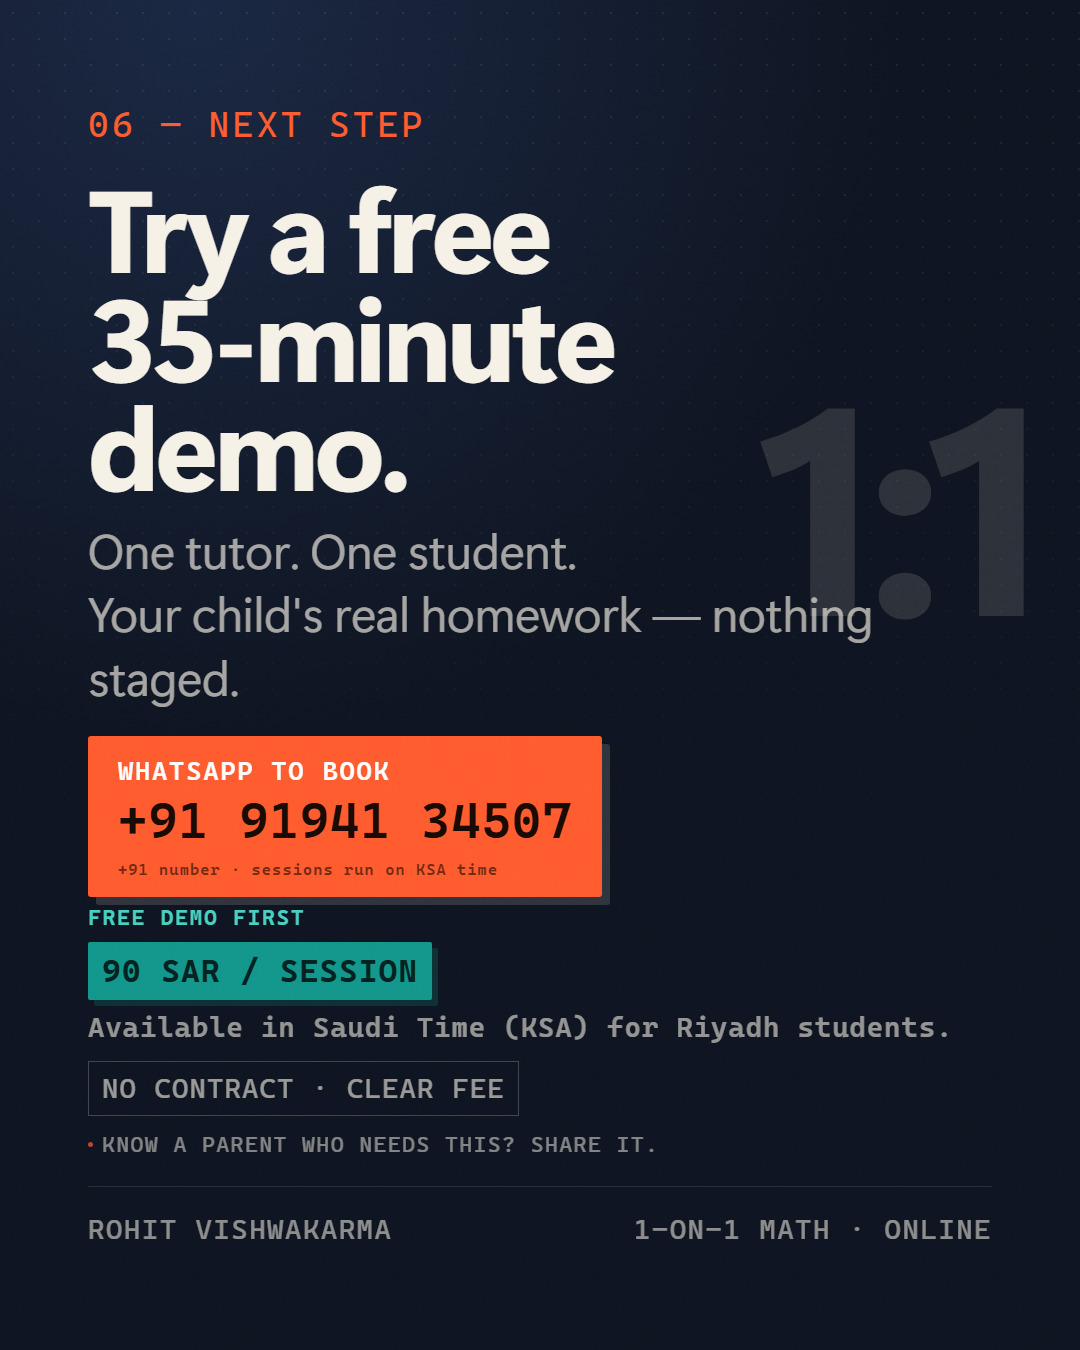
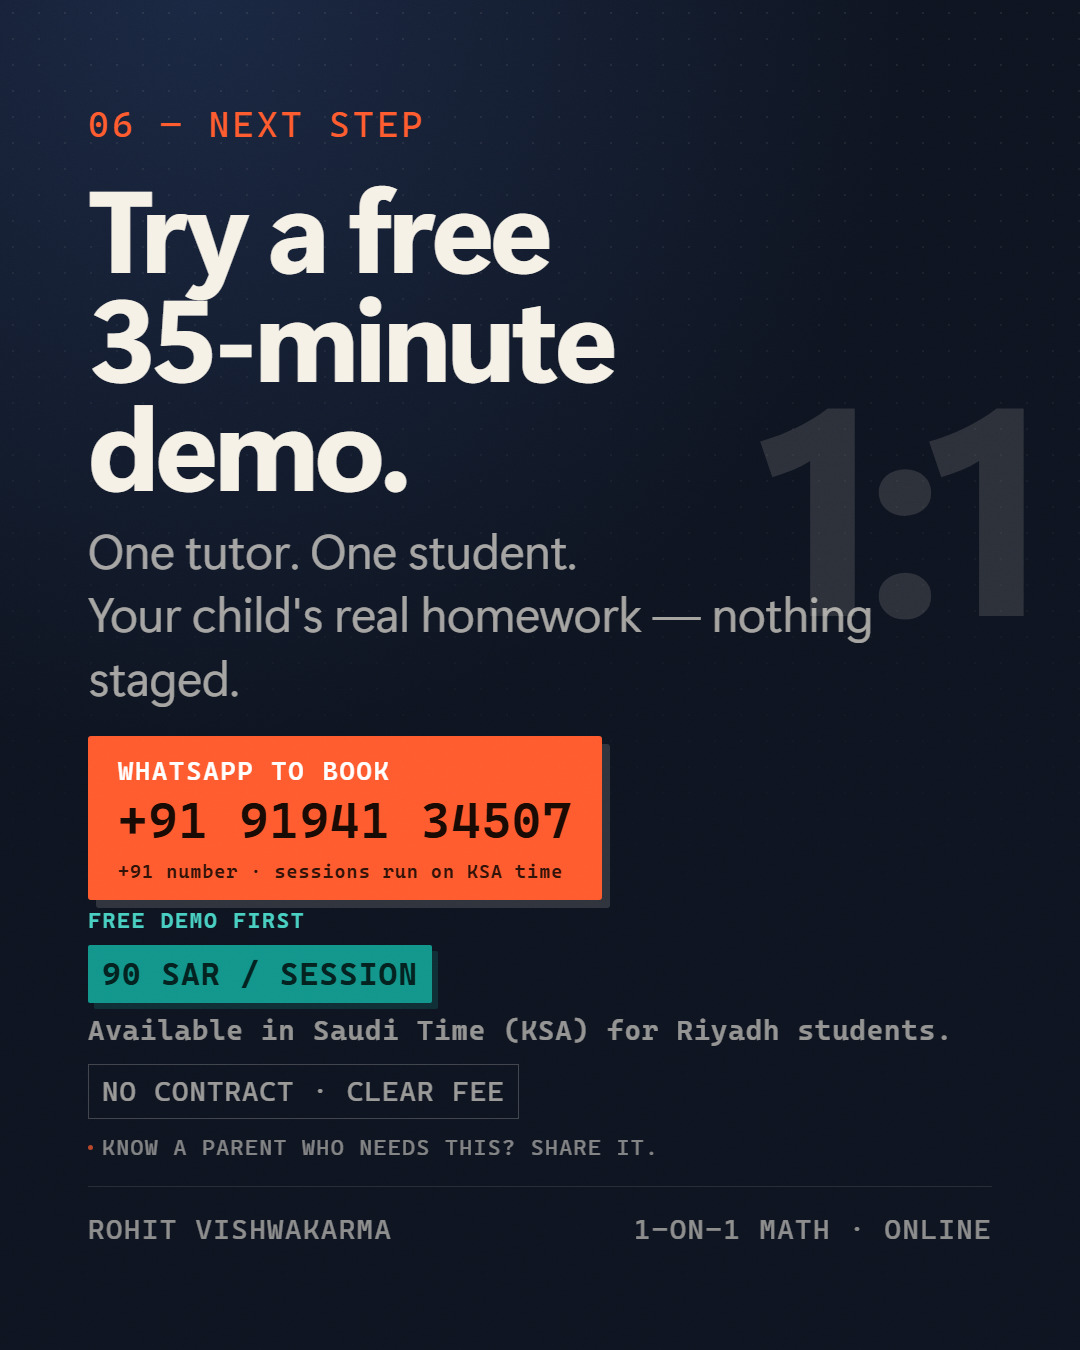
Make KSA phone note inside CTA clearly visible

Changed region(s): [[0.0917, 0.6222, 0.7028, 0.8711], [0.7333, 0.7467, 0.8861, 0.7778]]

diff --git a/nextgen-creative-kit-riyadh-45.html b/nextgen-creative-kit-riyadh-45.html
@@ -1425,7 +1425,7 @@
     letter-spacing:1.5px;color:#0F766E}
   .s6-phone-note{font-family:var(--mono);font-size:16px;letter-spacing:1.4px;font-weight:600;
     color:rgba(246,241,231,.62);margin-top:10px}
-  .s6-cta .s6-phone-note{color:rgba(24,10,4,.62);margin-top:4px;font-size:13px}
+  .s6-cta .s6-phone-note{color:rgba(24,10,4,.9);margin-top:4px;font-size:15px;font-weight:600}
   .s6-price{display:inline-flex;align-items:center;align-self:flex-start;gap:12px;
     margin-top:18px;padding:12px 18px;border-radius:2px;background:var(--teal);
     color:#04211F;font-family:var(--mono);font-size:19px;font-weight:700;
@@ -1527,7 +1527,7 @@
   .s6-price{margin-top:12px}
   .s6-note-ksa{font-size:24px;letter-spacing:.9px;font-weight:600;margin-top:6px}
   .s6-phone-note{margin-top:4px}
-  .s6-cta .s6-phone-note{color:rgba(24,10,4,.62);font-size:14px}
+  .s6-cta .s6-phone-note{color:rgba(24,10,4,.9);font-size:16px;font-weight:600}
 
   /* ---------- 4:5 portrait layout · 1080x1350 ---------- */
   .sq{width:1080px;height:1350px;padding:104px 88px}
@@ -1620,7 +1620,7 @@
   .s6 .risk span{font-size:28px;letter-spacing:1.1px;padding:10px 13px}
   .s6-micro span{font-size:22px;letter-spacing:1.4px}
   .s6-phone-note{font-size:28px;letter-spacing:.9px;font-weight:600}
-  .s6-cta .s6-phone-note{font-size:16px;color:rgba(24,10,4,.62)}
+  .s6-cta .s6-phone-note{font-size:19px;color:rgba(24,10,4,.9);font-weight:600}
   .s6-price{font-size:32px;letter-spacing:1px}
   .s6-free{font-size:22px;letter-spacing:1.6px;font-weight:700}
   .s6-note-ksa{font-size:28px;letter-spacing:.9px;font-weight:600}

diff --git a/nextgen-creative-kit-45.html b/nextgen-creative-kit-45.html
@@ -1493,7 +1493,7 @@
   .s6-price{margin-top:12px}
   .s6-note-ksa{font-size:24px;letter-spacing:.9px;font-weight:600;margin-top:6px}
   .s6-phone-note{margin-top:4px}
-  .s6-cta .s6-phone-note{color:rgba(24,10,4,.62);font-size:14px}
+  .s6-cta .s6-phone-note{color:rgba(24,10,4,.9);font-size:16px;font-weight:600}
 
   /* ---------- 4:5 portrait layout · 1080x1350 ---------- */
   .sq{width:1080px;height:1350px;padding:104px 88px}
@@ -1586,7 +1586,7 @@
   .s6 .risk span{font-size:28px;letter-spacing:1.1px;padding:10px 13px}
   .s6-micro span{font-size:22px;letter-spacing:1.4px}
   .s6-phone-note{font-size:28px;letter-spacing:.9px;font-weight:600}
-  .s6-cta .s6-phone-note{font-size:16px;color:rgba(24,10,4,.62)}
+  .s6-cta .s6-phone-note{font-size:19px;color:rgba(24,10,4,.9);font-weight:600}
   .s6-price{font-size:32px;letter-spacing:1px}
   .s6-free{font-size:22px;letter-spacing:1.6px;font-weight:700}
   .s6-note-ksa{font-size:28px;letter-spacing:.9px;font-weight:600}

diff --git a/nextgen-creative-kit-riyadh.html b/nextgen-creative-kit-riyadh.html
@@ -1425,7 +1425,7 @@
     letter-spacing:1.5px;color:#0F766E}
   .s6-phone-note{font-family:var(--mono);font-size:16px;letter-spacing:1.4px;font-weight:600;
     color:rgba(246,241,231,.62);margin-top:10px}
-  .s6-cta .s6-phone-note{color:rgba(24,10,4,.62);margin-top:4px;font-size:13px}
+  .s6-cta .s6-phone-note{color:rgba(24,10,4,.9);margin-top:4px;font-size:15px;font-weight:600}
   .s6-price{display:inline-flex;align-items:center;align-self:flex-start;gap:12px;
     margin-top:18px;padding:12px 18px;border-radius:2px;background:var(--teal);
     color:#04211F;font-family:var(--mono);font-size:19px;font-weight:700;
@@ -1527,7 +1527,7 @@
   .s6-price{margin-top:12px}
   .s6-note-ksa{font-size:24px;letter-spacing:.9px;font-weight:600;margin-top:6px}
   .s6-phone-note{margin-top:4px}
-  .s6-cta .s6-phone-note{color:rgba(24,10,4,.62);font-size:14px}
+  .s6-cta .s6-phone-note{color:rgba(24,10,4,.9);font-size:16px;font-weight:600}
 </style>
 <script>
 (function () {

diff --git a/nextgen-creative-kit.html b/nextgen-creative-kit.html
@@ -1493,7 +1493,7 @@
   .s6-price{margin-top:12px}
   .s6-note-ksa{font-size:24px;letter-spacing:.9px;font-weight:600;margin-top:6px}
   .s6-phone-note{margin-top:4px}
-  .s6-cta .s6-phone-note{color:rgba(24,10,4,.62);font-size:14px}
+  .s6-cta .s6-phone-note{color:rgba(24,10,4,.9);font-size:16px;font-weight:600}
 </style>
 <script>
 (function () {

diff --git a/exports/make-riyadh-deck.py b/exports/make-riyadh-deck.py
@@ -26,7 +26,7 @@ rep("  /* ---------- MOBILE LEGIBILITY ---------- */",
     letter-spacing:1.5px;color:#0F766E}
   .s6-phone-note{font-family:var(--mono);font-size:16px;letter-spacing:1.4px;font-weight:600;
     color:rgba(246,241,231,.62);margin-top:10px}
-  .s6-cta .s6-phone-note{color:rgba(24,10,4,.62);margin-top:4px;font-size:13px}
+  .s6-cta .s6-phone-note{color:rgba(24,10,4,.9);margin-top:4px;font-size:15px;font-weight:600}
   .s6-price{display:inline-flex;align-items:center;align-self:flex-start;gap:12px;
     margin-top:18px;padding:12px 18px;border-radius:2px;background:var(--teal);
     color:#04211F;font-family:var(--mono);font-size:19px;font-weight:700;

diff --git a/exports/make-carousel-45.py b/exports/make-carousel-45.py
@@ -107,7 +107,7 @@ TEXT_45 = """
   .s6 .risk span{font-size:28px;letter-spacing:1.1px;padding:10px 13px}
   .s6-micro span{font-size:22px;letter-spacing:1.4px}
   .s6-phone-note{font-size:28px;letter-spacing:.9px;font-weight:600}
-  .s6-cta .s6-phone-note{font-size:16px;color:rgba(24,10,4,.62)}
+  .s6-cta .s6-phone-note{font-size:19px;color:rgba(24,10,4,.9);font-weight:600}
   .s6-price{font-size:32px;letter-spacing:1px}
   .s6-free{font-size:22px;letter-spacing:1.6px;font-weight:700}
   .s6-note-ksa{font-size:28px;letter-spacing:.9px;font-weight:600}
